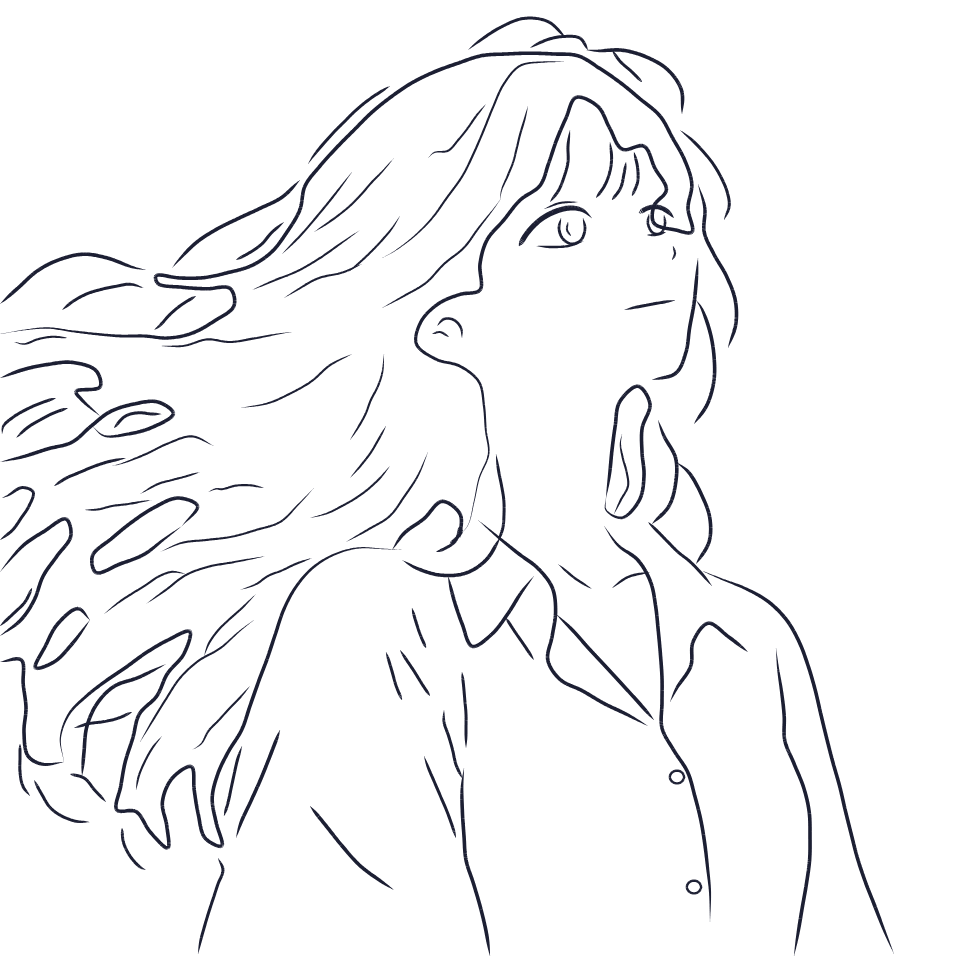
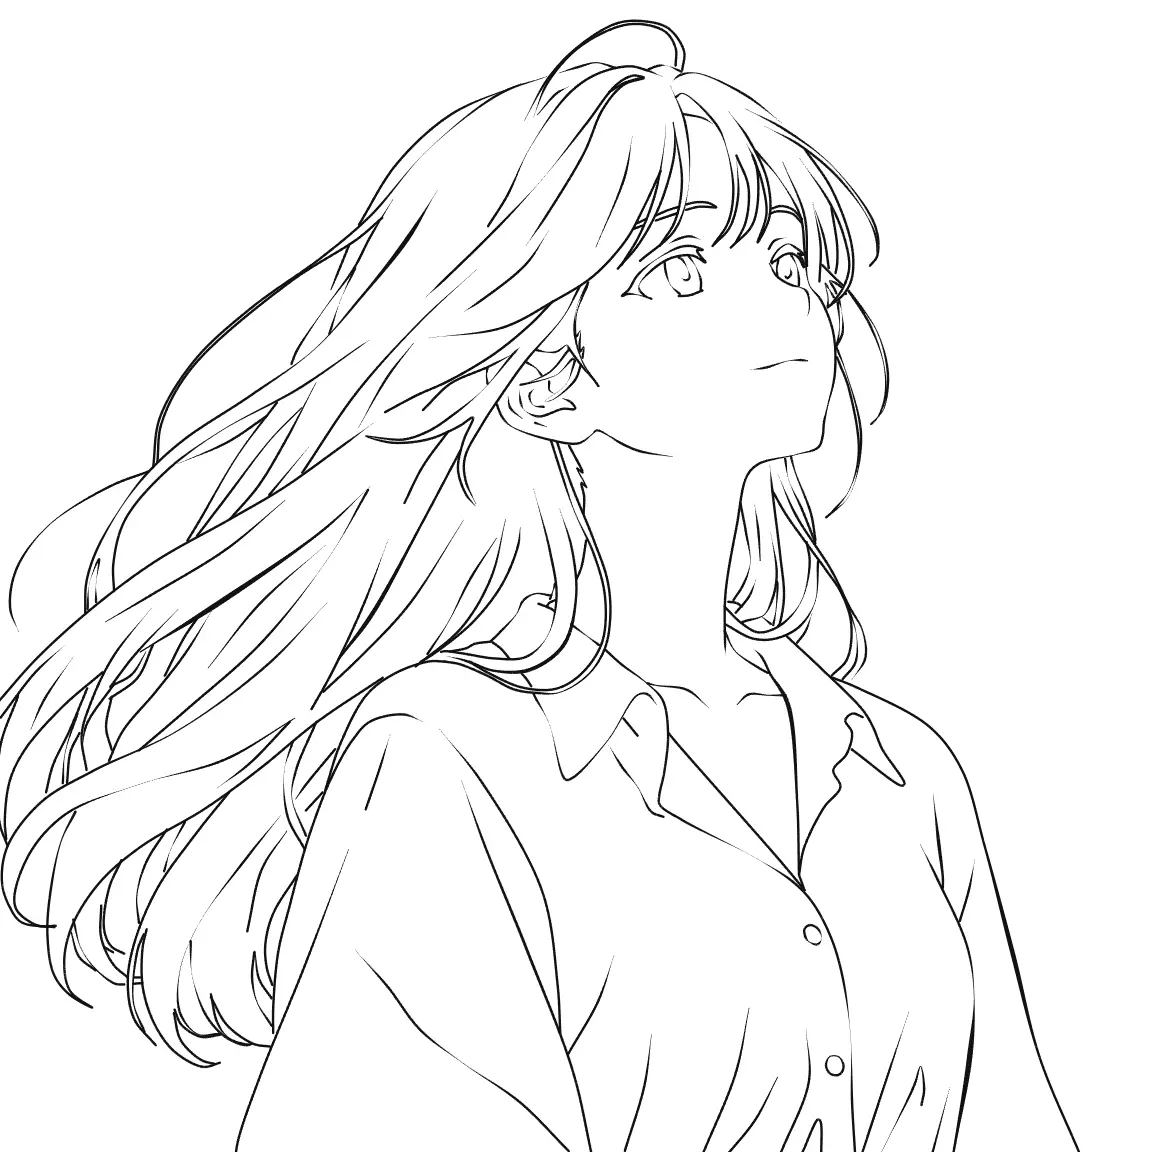
Novo exemplo de lineart feito à mão no README

diff --git a/README.en.md b/README.en.md
@@ -65,7 +65,7 @@ Giffact runs as a desktop app for Windows and Linux (Electron) and as a plain we
   </tr>
   <tr>
     <td align="center" width="50%"><img src="docs/screenshots/export.png" alt="Export dialog" /><br /><sub><b>Export</b> PNG/SVG at any scale</sub></td>
-    <td align="center" width="50%"><img src="docs/screenshots/lines-example.png" alt="Exported lines at 2x" /><br /><sub>The result: only the lines, exported at 2× (960×960)</sub></td>
+    <td align="center" width="50%"><img src="docs/screenshots/lines-example.png" alt="Lineart hand-traced in Giffact" /><br /><sub>The result: lineart hand-traced in Giffact, lines only (1152×1152)</sub></td>
   </tr>
   <tr>
     <td align="center" width="50%"><img src="docs/screenshots/preview.png" alt="Animated preview" /><br /><sub><b>Animated preview</b> of the traced frames</sub></td>
